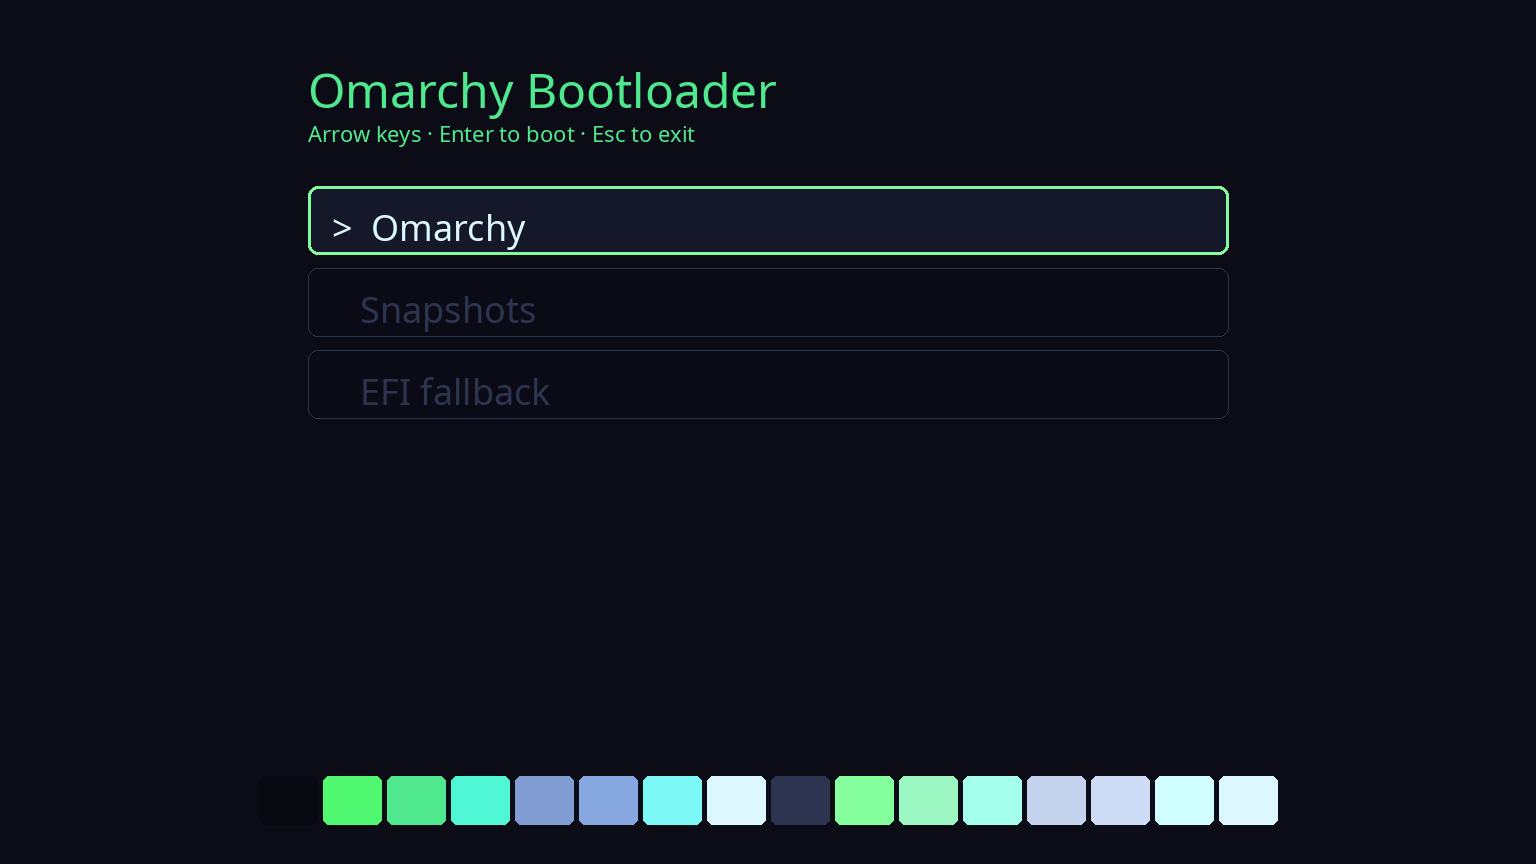
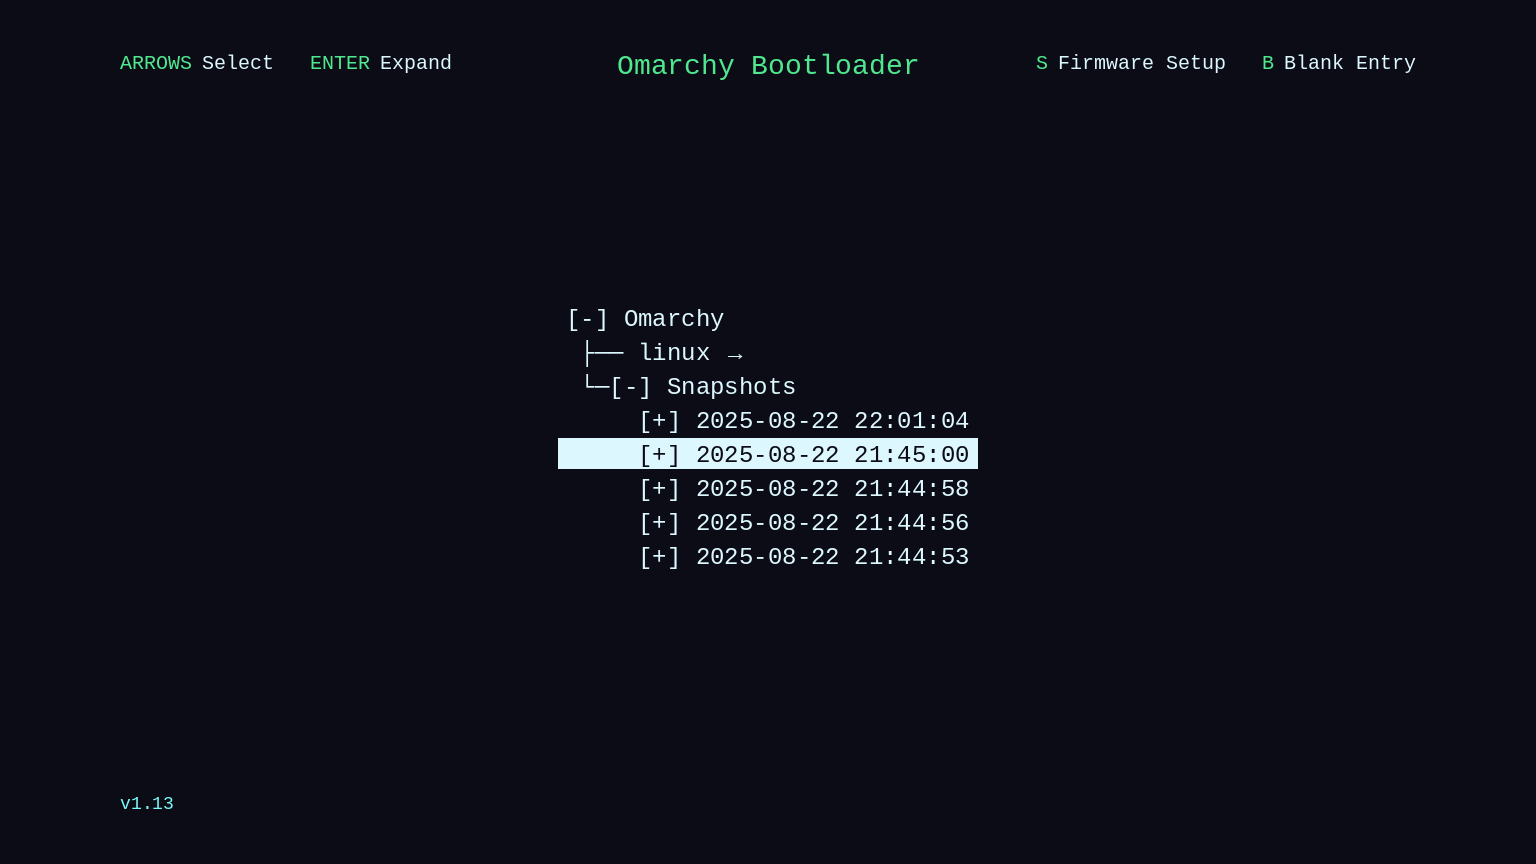
Match Limine mockups to Manual boot chrome for True Theme Vibe.
Draw help keys, snapshot tree, and inverse selection from a Tokyo Night
layout reference (Official Manual, not redistributed); keep themes palette-only
and carousel-safe. Document the method and ship a Tokyo Night compare preview.

diff --git a/lib/omaboot.py b/lib/omaboot.py
@@ -475,11 +475,12 @@ def atomic_write(path: Path, content: str | bytes) -> None:
 
 def try_font(size: int) -> ImageFont.ImageFont:
     candidates = [
+        "/usr/share/fonts/liberation/LiberationMono-Regular.ttf",
+        "/usr/share/fonts/Adwaita/AdwaitaMono-Regular.ttf",
+        "/usr/share/fonts/TTF/JetBrainsMonoNerdFont-Regular.ttf",
         "/usr/share/fonts/TTF/DejaVuSansMono.ttf",
-        "/usr/share/fonts/TTF/DejaVuSans.ttf",
         "/usr/share/fonts/truetype/dejavu/DejaVuSansMono.ttf",
-        "/usr/share/fonts/noto/NotoSans-Regular.ttf",
-        "/usr/share/fonts/TTF/LiberationSans-Regular.ttf",
+        "/usr/share/fonts/noto/NotoSansMono-Regular.ttf",
     ]
     for path in candidates:
         if Path(path).is_file():
@@ -508,6 +509,32 @@ def branding_label(existing_conf: str | None = None) -> str:
 # PreserveAspectCrop on the tile does not shave the subject.
 MOCKUP_SIZE = (1536, 864)
 SAFE_X = 120
+SAFE_Y = 48
+
+
+def _text_size(draw: ImageDraw.ImageDraw, text: str, font: ImageFont.ImageFont) -> tuple[int, int]:
+    bbox = draw.textbbox((0, 0), text, font=font)
+    return bbox[2] - bbox[0], bbox[3] - bbox[1]
+
+
+def _draw_help_pair(
+    draw: ImageDraw.ImageDraw,
+    x: int,
+    y: int,
+    key: str,
+    label: str,
+    font: ImageFont.ImageFont,
+    key_rgb: tuple[int, int, int],
+    label_rgb: tuple[int, int, int],
+    gap: int = 10,
+) -> int:
+    """Draw KEY + label; return width consumed."""
+    draw.text((x, y), key, font=font, fill=key_rgb)
+    kw, _ = _text_size(draw, key, font)
+    lx = x + kw + gap
+    draw.text((lx, y), label, font=font, fill=label_rgb)
+    lw, _ = _text_size(draw, label, font)
+    return kw + gap + lw
 
 
 def render_mockup(
@@ -516,77 +543,117 @@ def render_mockup(
     size: tuple[int, int] = MOCKUP_SIZE,
     branding: str = "Omarchy Bootloader",
 ) -> Path:
-    """Fake Limine interface: centered branding, menu rows, palette strip.
+    """Limine-like boot chrome from palette (Manual / System Snapshots layout).
 
-    Theme name is the picker label — keep chrome inside the horizontal safe
-    zone that survives the Style carousel crop.
+    Flat terminal UI: corner help keys, centered branding, ASCII snapshot tree,
+    inverse selection. Not a framebuffer capture — Limine has no headless
+    renderer. All chrome stays inside SAFE_X / SAFE_Y for the Style carousel.
     """
     w, h = size
     bg = palette["background"]
     brand = palette["brand"]
     fg = palette["bright_foreground"]
-    muted = palette["muted"]
-    sel_bg = palette["lighter_background"]
-    accent = palette["accent"]
+    version_ink = palette.get("cyan", palette["accent"])
 
-    img = Image.new("RGB", size, hex_to_rgb(bg))
+    bg_rgb = hex_to_rgb(bg)
+    brand_rgb = hex_to_rgb(brand)
+    fg_rgb = hex_to_rgb(fg)
+    version_rgb = hex_to_rgb(version_ink)
+    # Limine reverse-video selection: bright fg block, dark ink.
+    sel_bg_rgb = fg_rgb
+    sel_fg_rgb = bg_rgb
+
+    img = Image.new("RGB", size, bg_rgb)
     draw = ImageDraw.Draw(img)
 
-    font_sm = try_font(22)
-    font_lg = try_font(36)
-    font_xl = try_font(48)
+    font_help = try_font(20)
+    font_brand = try_font(28)
+    font_menu = try_font(24)
+    font_ver = try_font(18)
 
-    col_w = min(920, w - 2 * SAFE_X)
-    col_x = (w - col_w) // 2
-    top = 56
+    left = SAFE_X
+    right = w - SAFE_X
+    top = SAFE_Y
 
-    draw.text((col_x, top), branding, font=font_xl, fill=hex_to_rgb(brand))
-    draw.text(
-        (col_x, top + 62),
-        "Arrow keys · Enter to boot · Esc to exit",
-        font=font_sm,
-        fill=hex_to_rgb(brand),
+    # --- Top help / branding row (same band as real Limine) ---
+    help_y = top + 4
+    left_w = _draw_help_pair(draw, left, help_y, "ARROWS", "Select", font_help, brand_rgb, fg_rgb)
+    _draw_help_pair(
+        draw,
+        left + left_w + 36,
+        help_y,
+        "ENTER",
+        "Expand",
+        font_help,
+        brand_rgb,
+        fg_rgb,
     )
 
-    entries = [
-        ("Omarchy", True),
-        ("Snapshots", False),
-        ("EFI fallback", False),
-    ]
-    row_top = top + 130
-    row_h = 68
-    for index, (label, selected) in enumerate(entries):
-        y0 = row_top + index * (row_h + 14)
-        y1 = y0 + row_h
-        box = (col_x, y0, col_x + col_w, y1)
-        if selected:
-            draw.rounded_rectangle(
-                box, radius=10, fill=hex_to_rgb(sel_bg), outline=hex_to_rgb(accent), width=3
-            )
-            ink = fg
-            marker = ">"
-        else:
-            draw.rounded_rectangle(
-                box, radius=10, fill=hex_to_rgb(darken(bg, 0.08)), outline=hex_to_rgb(muted), width=1
-            )
-            ink = muted
-            marker = " "
-        draw.text((col_x + 24, y0 + 16), f"{marker}  {label}", font=font_lg, fill=hex_to_rgb(ink))
+    brand_w, brand_h = _text_size(draw, branding, font_brand)
+    brand_x = (w - brand_w) // 2
+    # Keep branding clear of side help if the title is long.
+    brand_x = max(left + 280, min(brand_x, right - brand_w - 280))
+    draw.text((brand_x, help_y - 2), branding, font=font_brand, fill=brand_rgb)
 
-    cells = palette["limine"]["term_palette"].split(";") + palette["limine"][
-        "term_palette_bright"
-    ].split(";")
-    strip_y = h - 88
-    cell_w = 64
-    total = cell_w * len(cells)
-    x0 = max(SAFE_X, (w - total) // 2)
-    for index, cell in enumerate(cells):
-        cx = x0 + index * cell_w
-        draw.rounded_rectangle(
-            (cx + 3, strip_y, cx + cell_w - 3, strip_y + 48),
-            radius=6,
-            fill=hex_to_rgb("#" + cell),
-        )
+    right_pairs = [("S", "Firmware Setup"), ("B", "Blank Entry")]
+    cursor = right
+    for key, label in reversed(right_pairs):
+        kw, _ = _text_size(draw, key, font_help)
+        lw, _ = _text_size(draw, label, font_help)
+        pw = kw + 10 + lw
+        cursor -= pw
+        _draw_help_pair(draw, cursor, help_y, key, label, font_help, brand_rgb, fg_rgb)
+        cursor -= 36
+
+    # --- Centered snapshot tree (Manual screenshot composition) ---
+    lines: list[tuple[str, bool]] = [
+        ("[-] Omarchy", False),
+        (" ├── linux", False),
+        (" └─[-] Snapshots", False),
+        ("     [+] 2025-08-22 22:01:04", False),
+        ("     [+] 2025-08-22 21:45:00", True),
+        ("     [+] 2025-08-22 21:44:58", False),
+        ("     [+] 2025-08-22 21:44:56", False),
+        ("     [+] 2025-08-22 21:44:53", False),
+    ]
+    # Measure widest line for horizontal centering inside the safe zone.
+    line_widths = [_text_size(draw, text, font_menu)[0] for text, _ in lines]
+    tree_w = max(line_widths)
+    tree_w = min(tree_w, right - left)
+    tree_x = (w - tree_w) // 2
+
+    line_h = 34
+    tree_h = line_h * len(lines)
+    # Vertically center the tree under the help band; keep clear of version.
+    content_top = top + 56
+    content_bottom = h - SAFE_Y - 36
+    tree_y = content_top + max(0, (content_bottom - content_top - tree_h) // 2)
+
+    for index, (text, selected) in enumerate(lines):
+        y = tree_y + index * line_h
+        tw, th = _text_size(draw, text, font_menu)
+        if selected:
+            pad_x, pad_y = 8, 4
+            box = (
+                tree_x - pad_x,
+                y - pad_y,
+                tree_x + tw + pad_x,
+                y + th + pad_y,
+            )
+            draw.rectangle(box, fill=sel_bg_rgb)
+            draw.text((tree_x, y), text, font=font_menu, fill=sel_fg_rgb)
+        else:
+            draw.text((tree_x, y), text, font=font_menu, fill=fg_rgb)
+
+    # Boot tip arrow on the linux row (real Limine shows a marker).
+    linux_y = tree_y + line_h
+    tip = " →"
+    tip_x = tree_x + _text_size(draw, " ├── linux", font_menu)[0] + 4
+    if tip_x + _text_size(draw, tip, font_menu)[0] < right:
+        draw.text((tip_x, linux_y), tip, font=font_menu, fill=fg_rgb)
+
+    # Version stamp — bottom-left inside safe margins (carousel keeps it).
+    draw.text((left, h - SAFE_Y - 22), "v1.13", font=font_ver, fill=version_rgb)
 
     dest.parent.mkdir(parents=True, exist_ok=True)
     img.save(dest, format="PNG", optimize=True)

diff --git a/README.md b/README.md
@@ -28,13 +28,15 @@ making *another* theme is more worth it. Longer origin / stop-line:
 |------|----------------------|
 | Zero extra assets | No per-theme Limine art. Colours come from `colors.toml` alone. |
 | Extreme compatibility | Stock + user + foreign themes all appear in the picker automatically. |
-| Illustrative mockups | Centered Limine-ish chrome. **Not** a real boot framebuffer — Limine has no headless renderer. |
-| Carousel-safe | Mockups are 1536×864 (menu-images thumbnail size) with ~8% side inset so the 768×475 tile crop does not shave the subject. |
+| True Theme Vibe | Mockups track real Limine chrome + your theme’s hex — **much closer**, if not identical, to what those colours look like on bare metal. Still **not** a framebuffer capture. |
+| Carousel-safe | Mockups are 1536×864 (menu-images thumbnail size) with ~8% side / ~48px vertical safe margins so the 768×475 tile crop does not shave the subject. |
 | Slow pickers are OK | Warming every theme PNG takes a moment; that is the cost of generating previews instead of bundling assets. |
 
-True WYSIWYG would need QEMU screenshots or extra art per theme — that narrows
-the scope we refuse to narrow. Plymouth Unlock looks “real” because Omarchy
-already ships unlock chrome; boot does not, so we draw from the palette.
+We are **not** putting WYSIWYG screenshots in themes. Themes stay palette-only;
+OmaBoot draws the chrome itself. True pixel-identical boot art would need QEMU /
+reboot loops or per-theme bitmaps — that narrows the scope we refuse to narrow.
+Plymouth Unlock looks “real” because Omarchy already ships unlock chrome; boot
+does not, so we draw from the palette against a single Limine layout.
 
 ### Why a picker (and no theme-set hook)?
 
@@ -50,13 +52,39 @@ OmaCursor / OmaVT.
   Theme / Background.
 - **Live theme discovery** — every Omarchy theme with a `colors.toml` under
   `~/.config/omarchy/themes` or `$OMARCHY_PATH/themes`.
-- **Mockups** — a simplified Limine frame (branding, help, menu rows, 16-colour
-  strip) coloured from that theme’s palette.
+- **Mockups** — Limine-like chrome (corner help keys, centered branding,
+  snapshot tree, inverse selection) coloured from that theme’s palette.
 - **Safe patch** — one `### omaboot:start` … `### omaboot:end` block in
   `/boot/limine.conf`. Appended once if missing; replaced as a whole when you
   change themes. Boot entries, timeout, branding *text*, and any custom cmdline
   stay untouched — the patcher never rewrites non-colour lines.
 - **No theme-set hook** — applying needs a password; pick when you mean it.
+
+## Mockups: True Theme Vibe (not theme-bundled WYSIWYG)
+
+Limine has no headless renderer, and we will not ask theme authors to ship boot
+screenshots. Instead the drawer in `lib/omaboot.py` paints a **single** Limine
+layout once, then recolours it from each theme’s `colors.toml`.
+
+**How that layout was locked in:** Omarchy’s stock Limine colours *are* Tokyo
+Night. The [System snapshots](https://omarchy.org/manual/system-snapshots/)
+page of the [Official Omarchy Manual](https://omarchy.org/manual/) shows a
+clean Limine boot screen in that palette (help keys, centered branding, snapshot
+tree, inverse selection, version stamp). That shot was the layout reference —
+not something we redistribute, and not something themes carry. Match the chrome
+to that Tokyo Night example, then every other installed theme inherits the same
+silhouette with *its* hex. One clear colour example → the rest fall into place.
+
+Stock Limine vibe (Tokyo Night mockup — compare to the Manual boot screenshot):
+
+![OmaBoot Tokyo Night mockup — stock Limine layout + palette](preview-tokyo-night.png)
+
+Hero above is the same chrome on **Hackerman**, so the picker story is obvious:
+same Limine, different theme colours. Not every Style plugin will land this
+close; this is the start of that bar.
+
+Carousel crop stays honest: content is centered inside safe margins so
+`omarchy-menu-images` does not shave the subject.
 
 ## Install
 
@@ -126,11 +154,17 @@ bash ~/.config/omarchy/plugins/io.github.alxwolfenstein97.omaboot/check.sh
 
 ## Credits
 
+- **Layout reference:** Limine boot screenshot on
+  [System snapshots](https://omarchy.org/manual/system-snapshots/) in the
+  [Official Omarchy Manual](https://omarchy.org/manual/) (Tokyo Night / stock
+  Omarchy Limine). Used as a layout + vibe target only — not redistributed.
 - Hero mockup: official **Hackerman** theme (the loudest stock neon Omarchy
-  ships).
+  ships). Compare mockup: stock **Tokyo Night**.
 - Sibling plugins: [OmaOBS](https://github.com/AlxWolfenstein97/omaobs),
   [OmaVT](https://github.com/AlxWolfenstein97/omavt),
-  [OmaTTY](https://github.com/AlxWolfenstein97/omatty).
+  [OmaTTY](https://github.com/AlxWolfenstein97/omatty),
+  [OmaCursor](https://github.com/AlxWolfenstein97/omacursor),
+  [Chroma](https://github.com/AlxWolfenstein97/chroma).
 - [Omarchy](https://omarchy.org/) — theme pipeline, Style menu image picker,
   and Limine defaults this plugin patches carefully.
 
